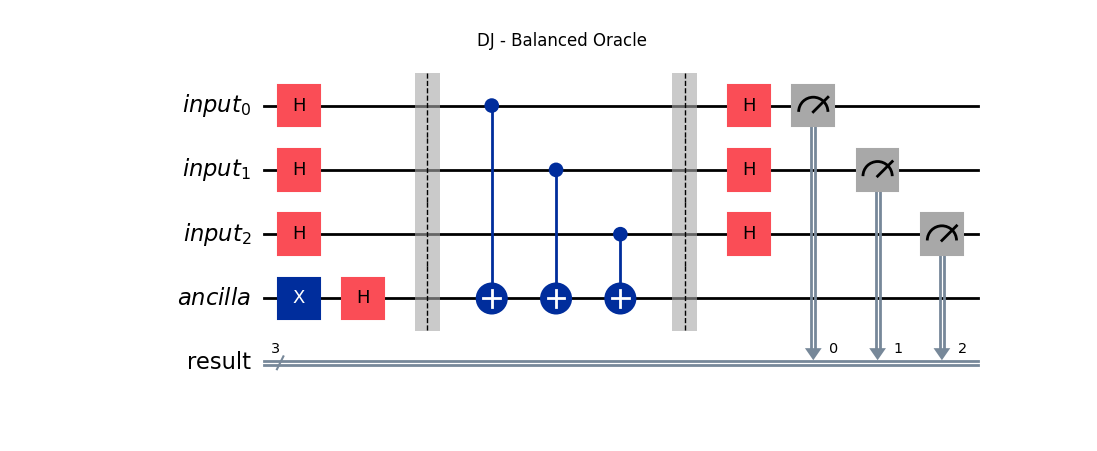
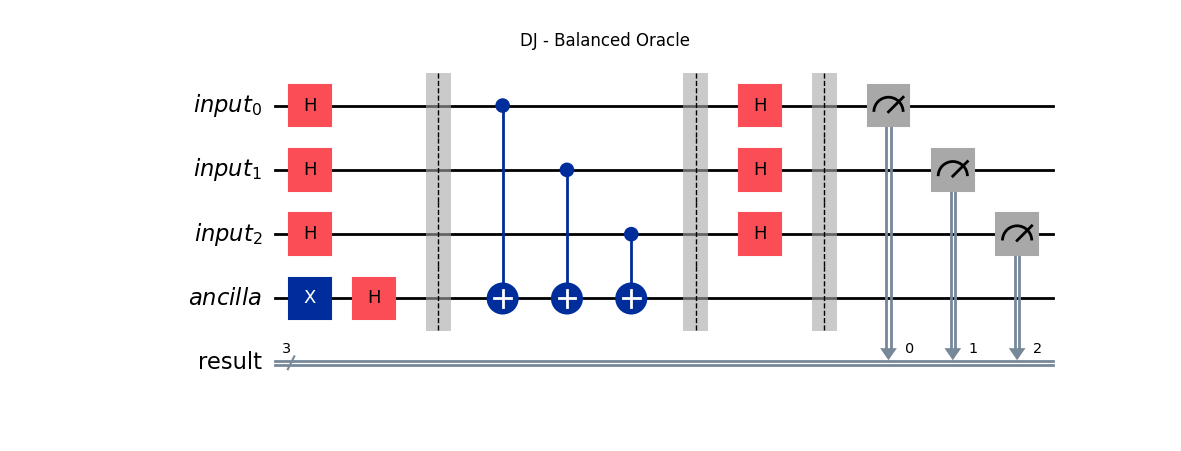
fix: the dj algo using 4qubits

diff --git a/ex03/deutsch_jozsa.py b/ex03/deutsch_jozsa.py
@@ -86,6 +86,7 @@ After the final H gates, the input qubits cannot all be |0⟩ → non-zero resul
 |110⟩ → two 1s   → even → phase +1
 |111⟩ → three 1s → odd  → phase -1
 """
+
 def oracle_balanced(circuit, input_qubits, ancilla_qubit):
     circuit.cx(input_qubits[0], ancilla_qubit[0])
     circuit.cx(input_qubits[1], ancilla_qubit[0])
@@ -96,44 +97,47 @@ Builds and returns the full Deutsch-Jozsa circuit for a given oracle.
 Works for any oracle that follows the (circuit, input_qubits, ancilla) signature.
 """
 def deutsch_jozsa(oracle_fn, oracle_name="unknown"):
-    #qr_i = quantum register input
-    #qr_a = quantum register ancila
-    #cr = classical register->storage
-    #qc = quantum circuit
-    qr_i = QuantumRegister(3, name='input')
-    qr_a = QuantumRegister(1, name='ancilla')
-    cr = ClassicalRegister(3, name='result')
+    qr_i = QuantumRegister(3, name="input")
+    qr_a = QuantumRegister(1, name="ancilla")
+    cr   = ClassicalRegister(3, name="result")
+
     qc = QuantumCircuit(qr_i, qr_a, cr)
 
     qc.x(qr_a)
-    qc.h(qr_a) #phase kickback here
-    qc.h(qr_i) #all the inputs superpositioned here
+    qc.h(qr_a)
+
+    qc.h(qr_i)
 
     qc.barrier()
-    oracle_fn(qc, qr_i, qr_a) #marks the phases here(+1, -1)
+    oracle_fn(qc, qr_i, qr_a)
 
     qc.barrier()
-    qc.h(qr_i) #interference reveal |000> if constant and sth else if balanced(they cancel out)
-    qc.measure(qr_i, cr) #only input qubits are measured. ancila was only for phasekickback
+    qc.h(qr_i)
+
+    qc.barrier()
+    qc.measure(qr_i, cr)
 
     return qc
 
-
 def run_and_interpret(circuit, label):
     simulator = AerSimulator()
-    counts    = simulator.run(transpile(circuit, simulator), shots=500).result().get_counts()
+    counts = simulator.run(transpile(circuit, simulator), shots=500).result().get_counts()
 
     measured = max(counts, key=counts.get)
-    answer = 0 if measured == "000" else 1
-    verdict = "CONSTANT" if answer == 0 else "BALANCED"
+
+    answer = "0" if measured == "000" else "1"
+    verdict = "CONSTANT" if answer == "0" else "BALANCED"
+
+    assignment_counts = {answer: counts[measured]}
 
     print(f"\n{'='*40}")
     print(f"Oracle: {label}")
     print(f"Raw counts: {counts}")
+    print(f"Measured input qubits: {measured}")
     print(f"Verdict: {verdict}")
     print(f"Assignment output bit: {answer}")
 
-    return counts
+    return assignment_counts
 
 def save_circuit_diagram(circuit, label):
     print(f"\n=== {label.upper()} ORACLE CIRCUIT ===")
@@ -156,7 +160,6 @@ for label, oracle in oracles.items():
 
     save_circuit_diagram(circuit, label)
     counts[label] = run_and_interpret(circuit, label)
-
 
 fig, axes = plt.subplots(1, 2, figsize=(12, 4))
 
